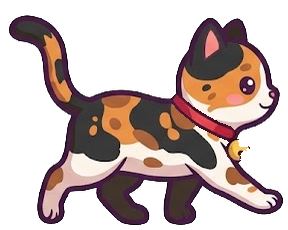
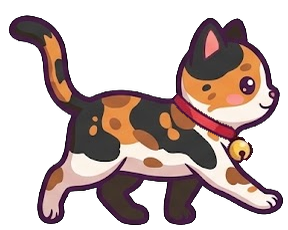
Cat Evolution: collar en el carey, versión 2 (cascabel completo, bordes suaves, mejor encaje)

Changed region(s): [[0.5938, 0.3957, 0.7812, 0.6087], [0.7812, 0.5783, 0.875, 0.7], [0.7812, 0.5478, 0.8125, 0.5783]]

diff --git a/cat-evolution/herramientas/accesorio_a_pelaje.py b/cat-evolution/herramientas/accesorio_a_pelaje.py
@@ -11,6 +11,7 @@ from pathlib import Path
 import numpy as np
 from PIL import Image
 from scipy import ndimage
+from skimage.morphology import convex_hull_image
 
 AQUI = Path(__file__).resolve().parent
 ARTE = Path(sys.argv[1]) if len(sys.argv) > 1 else AQUI.parent / 'arte'
@@ -23,8 +24,15 @@ def colores_cascabel(a):
     r, g, b = a[..., 0], a[..., 1], a[..., 2]
     mx = a[..., :3].max(2); mn = a[..., :3].min(2); sat = (mx - mn) / np.maximum(mx, 1)
     rojo = (r > 120) & (r > g * 1.6) & (r > b * 1.5) & (sat > .45)
-    oro = (r > 150) & (g > 100) & (b < 120) & (sat > .4) & (r > b * 1.6)
+    oro = (r > 150) & (g > 100) & (b < 150) & (sat > .3) & (r > b * 1.4)
     return rojo | oro
+
+
+def redondos(a):
+    """Partes redondas del accesorio (el cascabel): se rellenan con su forma completa, también el lado iluminado."""
+    r, g, b = a[..., 0], a[..., 1], a[..., 2]
+    mx = a[..., :3].max(2); mn = a[..., :3].min(2); sat = (mx - mn) / np.maximum(mx, 1)
+    return (r > 150) & (g > 100) & (b < 150) & (sat > .3) & (r > b * 1.4)
 
 
 # accesorio → función que reconoce sus colores (por ahora, la prueba con el collar de cascabel)
@@ -39,6 +47,7 @@ def cargar(f, size=None):
 
 
 def mascara(acc, base, colores):
+    """Peso 0-1 de cada pixel del accesorio (1 = accesorio, bordes suaves de 1 pixel)."""
     d = np.abs(acc[..., :3] - base[..., :3]).sum(2)
     nucleo = colores(acc) & (d > 70)
     lab, k = ndimage.label(nucleo)
@@ -47,11 +56,41 @@ def mascara(acc, base, colores):
     # el contorno oscuro del accesorio, pegado a sus colores
     cerca = ndimage.binary_dilation(nucleo, iterations=3)
     m = nucleo | (cerca & (acc[..., :3].mean(2) < 110) & (d > 40))
-    m = ndimage.binary_closing(m, iterations=1) & (acc[..., 3] > 0)
-    # fuera pixeles sueltos
+    m = ndimage.binary_closing(m, iterations=2)
+    # partes redondas (cascabel): su forma completa, aunque el lado iluminado sea casi blanco
+    oro = redondos(acc) & (d > 40)
+    lab, k = ndimage.label(oro)
+    for i in range(1, k + 1):
+        comp = lab == i
+        if comp.sum() < 10:
+            continue
+        casco = convex_hull_image(comp)
+        m |= ndimage.binary_dilation(casco, iterations=1) & (d > 25)
+    # rellenar huecos: los brillos blancos del cascabel y las líneas de adentro también son del accesorio
+    m = ndimage.binary_fill_holes(m) & (acc[..., 3] > 0)
     lab, k = ndimage.label(m)
     tam = ndimage.sum(m, lab, range(1, k + 1))
-    return np.isin(lab, [i + 1 for i, t in enumerate(tam) if t >= 6])
+    m = np.isin(lab, [i + 1 for i, t in enumerate(tam) if t >= 6])
+    # borde suave: el pixel de la orilla se mezcla a la mitad
+    borde = m & ~ndimage.binary_erosion(m)
+    peso = m.astype(float)
+    peso[borde] = .55
+    return peso
+
+
+def alinear(a, p, evitar):
+    """Desplazamiento (dy, dx) que mejor encima las líneas del gato con accesorio sobre las del otro pelaje."""
+    tinta = lambda x: (x[..., :3].mean(2) < 100) & (x[..., 3] > 0)
+    ta, tp = tinta(a) & ~evitar, tinta(p)
+    cero = (ta & tp).sum()
+    mejor, dmejor = cero, (0, 0)
+    for dy in range(-3, 4):
+        for dx in range(-3, 4):
+            s = (np.roll(np.roll(ta, dy, 0), dx, 1) & tp).sum()
+            if s > mejor:
+                mejor, dmejor = s, (dy, dx)
+    # solo se mueve si encaja claramente mejor (5% más de línea encimada)
+    return dmejor if mejor > cero * 1.05 else (0, 0)
 
 
 def generar(arte, man):
@@ -63,9 +102,15 @@ def generar(arte, man):
                 if not (fa.exists() and fb.exists() and fp.exists()):
                     continue
                 a = cargar(fa); size = (a.shape[1], a.shape[0])
-                m = mascara(a, cargar(fb, size), colores)
+                peso = mascara(a, cargar(fb, size), colores)
                 p = cargar(fp, size)
-                p[m] = a[m]
+                dy, dx = alinear(a, p, ndimage.binary_dilation(peso > 0, iterations=4))
+                if dy or dx: print(f'  {pose}: el accesorio se movió {dx}, {dy} px para encajar')
+                a = np.roll(np.roll(a, dy, 0), dx, 1); peso = np.roll(np.roll(peso, dy, 0), dx, 1)
+                fuera = p[..., 3] < 128          # donde el accesorio sobresale del cuerpo: va completo, sin mezclar con el vacío
+                w = np.where(fuera, (peso > 0).astype(float), peso)[..., None]
+                p[..., :3] = (p[..., :3] * (1 - w) + a[..., :3] * w).round()
+                p[..., 3] = np.where(peso > 0, np.maximum(p[..., 3], a[..., 3]), p[..., 3])
                 nombre = f'gato_{pose}_{pel}_{acc}'
                 Image.fromarray(p.astype(np.uint8), 'RGBA').save(arte / f'{nombre}.png', optimize=True)
                 man['assets'][nombre] = {'file': f'{nombre}.png', 'w': size[0], 'h': size[1]}
